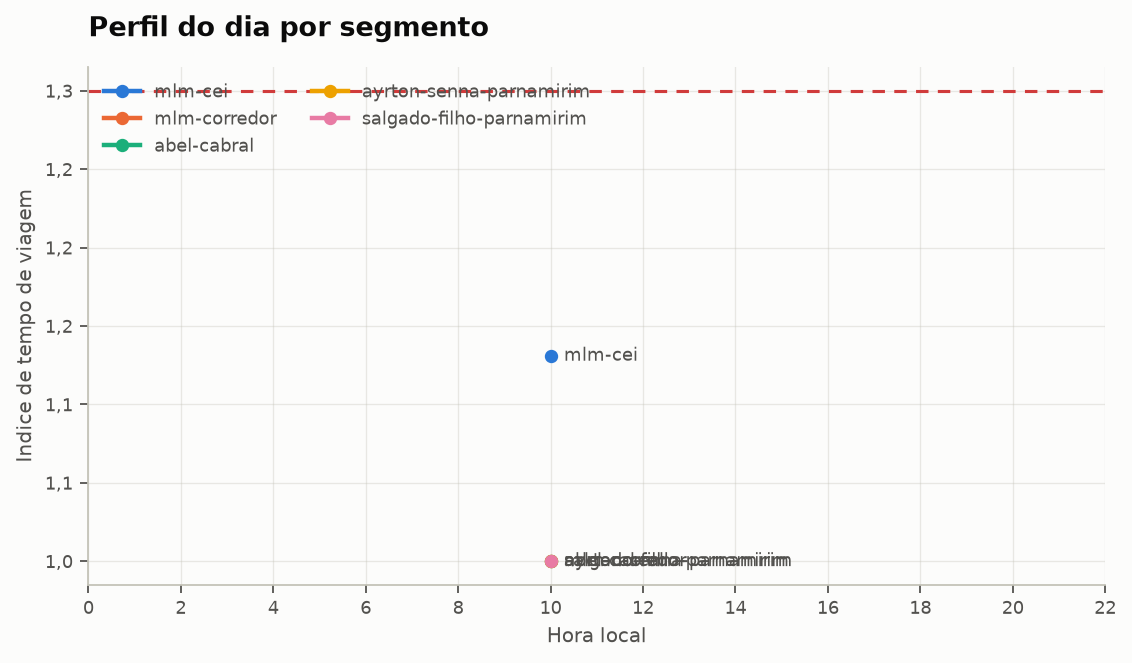
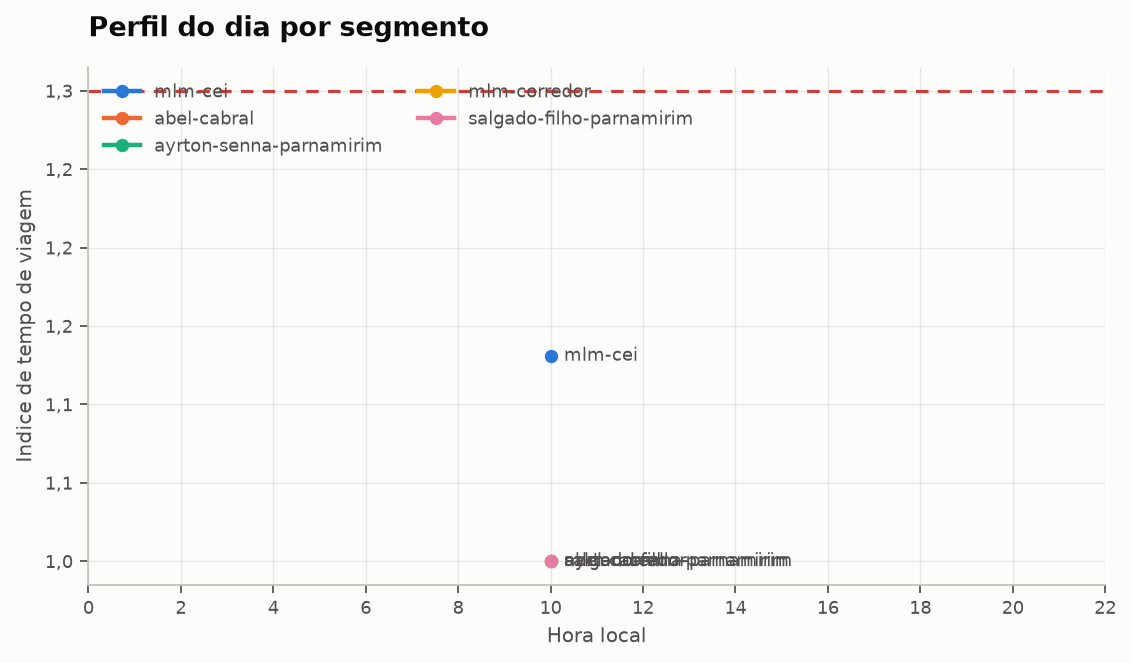
fix: ordem estavel no ranking e nos piores momentos
- adiciona criterio de desempate por atraso e por identificador no ranking
- desempata janelas e piores momentos, que saiam em ordem arbitraria
- evita que o relatorio mude sozinho a cada regeracao sem dado novo

Changed region(s): [[0.1237, 0.1207, 0.6184, 0.2413]]

diff --git a/docs/mapa.html b/docs/mapa.html
@@ -16,7 +16,7 @@
             <meta name="viewport" content="width=device-width,
                 initial-scale=1.0, maximum-scale=1.0, user-scalable=no" />
             <style>
-                #map_b0599a18dadd2fc53e92b37530fadc73 {
+                #map_2650599d9e7b1073843c78829d03b41e {
                     position: relative;
                     width: 100.0vw;
                     height: 100.0vh;
@@ -258,14 +258,14 @@
 <body>
     
     
-            <div class="folium-map" id="map_b0599a18dadd2fc53e92b37530fadc73" ></div>
+            <div class="folium-map" id="map_2650599d9e7b1073843c78829d03b41e" ></div>
         
 </body>
 <script>
     
     
-            var map_b0599a18dadd2fc53e92b37530fadc73 = L.map(
-                "map_b0599a18dadd2fc53e92b37530fadc73",
+            var map_2650599d9e7b1073843c78829d03b41e = L.map(
+                "map_2650599d9e7b1073843c78829d03b41e",
                 {
                     center: [-5.83, -35.22],
                     crs: L.CRS.EPSG3857,
@@ -282,7 +282,7 @@
 
         
     
-            var tile_layer_b36aa2d1f5f37aec56beabec5d338747 = L.tileLayer(
+            var tile_layer_c3d1f9c309dd278775a83b97858472a7 = L.tileLayer(
                 "https://tile.openstreetmap.org/{z}/{x}/{y}.png",
                 {
   "minZoom": 0,
@@ -299,33 +299,33 @@
             );
         
     
-            tile_layer_b36aa2d1f5f37aec56beabec5d338747.addTo(map_b0599a18dadd2fc53e92b37530fadc73);
+            tile_layer_c3d1f9c309dd278775a83b97858472a7.addTo(map_2650599d9e7b1073843c78829d03b41e);
         
     
-            var circle_marker_d3c809e37333265200fe6436957661fb = L.circleMarker(
+            var circle_marker_b37b6ec0578b70390ba91447a5a45bbc = L.circleMarker(
                 [-5.8786711, -35.2165393],
                 {"bubblingMouseEvents": true, "color": "#fcfcfb", "dashArray": null, "dashOffset": null, "fill": true, "fillColor": "#6da7ec", "fillOpacity": 0.85, "fillRule": "evenodd", "lineCap": "round", "lineJoin": "round", "opacity": 1.0, "radius": 7.834, "stroke": true, "weight": 2}
-            ).addTo(map_b0599a18dadd2fc53e92b37530fadc73);
+            ).addTo(map_2650599d9e7b1073843c78829d03b41e);
         
     
-        var popup_c64bc971a4f9cb431c92cb035a677acd = L.popup({
+        var popup_0ab632c3e6bed4c8b66105ad72bbc0eb = L.popup({
   "maxWidth": 280,
 });
 
         
             
-                var html_e09c15186e71930f5a1d05407da52e86 = $(`<div id="html_e09c15186e71930f5a1d05407da52e86" style="width: 100.0%; height: 100.0%;"><b>Avenida Maria Lacerda Montenegro</b><br>Trecho de 444 metros em frente ao CEI Zona Sul, numero 260<br>Nova Parnamirim, Parnamirim<br><br>indice medio 1.13<br>indice no percentil 95 1.25<br>atraso medio 25 s/km<br>0% das amostras em congestionamento<br>2 amostras</div>`)[0];
-                popup_c64bc971a4f9cb431c92cb035a677acd.setContent(html_e09c15186e71930f5a1d05407da52e86);
+                var html_5e99e82abad1a2209df30bcb8d7ef217 = $(`<div id="html_5e99e82abad1a2209df30bcb8d7ef217" style="width: 100.0%; height: 100.0%;"><b>Avenida Maria Lacerda Montenegro</b><br>Trecho de 444 metros em frente ao CEI Zona Sul, numero 260<br>Nova Parnamirim, Parnamirim<br><br>indice medio 1.13<br>indice no percentil 95 1.25<br>atraso medio 25 s/km<br>0% das amostras em congestionamento<br>2 amostras</div>`)[0];
+                popup_0ab632c3e6bed4c8b66105ad72bbc0eb.setContent(html_5e99e82abad1a2209df30bcb8d7ef217);
             
         
 
-        circle_marker_d3c809e37333265200fe6436957661fb.bindPopup(popup_c64bc971a4f9cb431c92cb035a677acd)
+        circle_marker_b37b6ec0578b70390ba91447a5a45bbc.bindPopup(popup_0ab632c3e6bed4c8b66105ad72bbc0eb)
         ;
 
         
     
     
-            circle_marker_d3c809e37333265200fe6436957661fb.bindTooltip(
+            circle_marker_b37b6ec0578b70390ba91447a5a45bbc.bindTooltip(
                 `<div>
                      mlm-cei, indice 1.13
                  </div>`,
@@ -335,63 +335,30 @@
             );
         
     
-            var circle_marker_1b571fe23f397206d14f7d70c2bd9abf = L.circleMarker(
-                [-5.8841519, -35.2130595],
-                {"bubblingMouseEvents": true, "color": "#fcfcfb", "dashArray": null, "dashOffset": null, "fill": true, "fillColor": "#cde2fb", "fillOpacity": 0.85, "fillRule": "evenodd", "lineCap": "round", "lineJoin": "round", "opacity": 1.0, "radius": 6.0, "stroke": true, "weight": 2}
-            ).addTo(map_b0599a18dadd2fc53e92b37530fadc73);
-        
-    
-        var popup_42201a01b507ab7d1876dd009fd17d8f = L.popup({
-  "maxWidth": 280,
-});
-
-        
-            
-                var html_c041ba57fc86c96dc2360e6a53658df1 = $(`<div id="html_c041ba57fc86c96dc2360e6a53658df1" style="width: 100.0%; height: 100.0%;"><b>Avenida Maria Lacerda Montenegro</b><br>Eixo completo da avenida, 3,4 quilometros ate a Ayrton Senna<br>Nova Parnamirim, Parnamirim<br><br>indice medio 1.00<br>indice no percentil 95 1.00<br>atraso medio 0 s/km<br>0% das amostras em congestionamento<br>2 amostras</div>`)[0];
-                popup_42201a01b507ab7d1876dd009fd17d8f.setContent(html_c041ba57fc86c96dc2360e6a53658df1);
-            
-        
-
-        circle_marker_1b571fe23f397206d14f7d70c2bd9abf.bindPopup(popup_42201a01b507ab7d1876dd009fd17d8f)
-        ;
-
-        
-    
-    
-            circle_marker_1b571fe23f397206d14f7d70c2bd9abf.bindTooltip(
-                `<div>
-                     mlm-corredor, indice 1.00
-                 </div>`,
-                {
-  "sticky": true,
-}
-            );
-        
-    
-            var circle_marker_716eb4b44540b0e4a754ac7b1abd38c2 = L.circleMarker(
+            var circle_marker_a23154bab1b4b0a234d07542c65d4307 = L.circleMarker(
                 [-5.8753441, -35.2147456],
                 {"bubblingMouseEvents": true, "color": "#fcfcfb", "dashArray": null, "dashOffset": null, "fill": true, "fillColor": "#cde2fb", "fillOpacity": 0.85, "fillRule": "evenodd", "lineCap": "round", "lineJoin": "round", "opacity": 1.0, "radius": 6.0, "stroke": true, "weight": 2}
-            ).addTo(map_b0599a18dadd2fc53e92b37530fadc73);
+            ).addTo(map_2650599d9e7b1073843c78829d03b41e);
         
     
-        var popup_1b3c4bc73b69012c87e2769da17c2864 = L.popup({
+        var popup_0f3a98fb3f60ececb87e90a6da29ad71 = L.popup({
   "maxWidth": 280,
 });
 
         
             
-                var html_8f2f0921243ebb78db72cc7ca1d13711 = $(`<div id="html_8f2f0921243ebb78db72cc7ca1d13711" style="width: 100.0%; height: 100.0%;"><b>Avenida Abel Cabral</b><br>Trecho central de Nova Parnamirim<br>Nova Parnamirim, Parnamirim<br><br>indice medio 1.00<br>indice no percentil 95 1.00<br>atraso medio 0 s/km<br>0% das amostras em congestionamento<br>2 amostras</div>`)[0];
-                popup_1b3c4bc73b69012c87e2769da17c2864.setContent(html_8f2f0921243ebb78db72cc7ca1d13711);
+                var html_589fda66cab1a89a12caf192904574cc = $(`<div id="html_589fda66cab1a89a12caf192904574cc" style="width: 100.0%; height: 100.0%;"><b>Avenida Abel Cabral</b><br>Trecho central de Nova Parnamirim<br>Nova Parnamirim, Parnamirim<br><br>indice medio 1.00<br>indice no percentil 95 1.00<br>atraso medio 0 s/km<br>0% das amostras em congestionamento<br>2 amostras</div>`)[0];
+                popup_0f3a98fb3f60ececb87e90a6da29ad71.setContent(html_589fda66cab1a89a12caf192904574cc);
             
         
 
-        circle_marker_716eb4b44540b0e4a754ac7b1abd38c2.bindPopup(popup_1b3c4bc73b69012c87e2769da17c2864)
+        circle_marker_a23154bab1b4b0a234d07542c65d4307.bindPopup(popup_0f3a98fb3f60ececb87e90a6da29ad71)
         ;
 
         
     
     
-            circle_marker_716eb4b44540b0e4a754ac7b1abd38c2.bindTooltip(
+            circle_marker_a23154bab1b4b0a234d07542c65d4307.bindTooltip(
                 `<div>
                      abel-cabral, indice 1.00
                  </div>`,
@@ -401,30 +368,30 @@
             );
         
     
-            var circle_marker_c6f1f19d617e66fac577b8edf7c436a7 = L.circleMarker(
+            var circle_marker_2204fca948bd9ba8f2c676bfa4d12896 = L.circleMarker(
                 [-5.8886641, -35.1993949],
                 {"bubblingMouseEvents": true, "color": "#fcfcfb", "dashArray": null, "dashOffset": null, "fill": true, "fillColor": "#cde2fb", "fillOpacity": 0.85, "fillRule": "evenodd", "lineCap": "round", "lineJoin": "round", "opacity": 1.0, "radius": 6.0, "stroke": true, "weight": 2}
-            ).addTo(map_b0599a18dadd2fc53e92b37530fadc73);
+            ).addTo(map_2650599d9e7b1073843c78829d03b41e);
         
     
-        var popup_3beaf81db688bdeff4038b120a0a6c48 = L.popup({
+        var popup_0d4ae2d3341c5c1cad27dedf42d730bb = L.popup({
   "maxWidth": 280,
 });
 
         
             
-                var html_6f4ad1e3ef3cae753421ddcda7cd7f38 = $(`<div id="html_6f4ad1e3ef3cae753421ddcda7cd7f38" style="width: 100.0%; height: 100.0%;"><b>Avenida Ayrton Senna</b><br>Portelinha, sentido Natal<br>Nova Parnamirim, Parnamirim<br><br>indice medio 1.00<br>indice no percentil 95 1.00<br>atraso medio 0 s/km<br>0% das amostras em congestionamento<br>2 amostras</div>`)[0];
-                popup_3beaf81db688bdeff4038b120a0a6c48.setContent(html_6f4ad1e3ef3cae753421ddcda7cd7f38);
+                var html_63b0c0d652348c0e2233240419706aa5 = $(`<div id="html_63b0c0d652348c0e2233240419706aa5" style="width: 100.0%; height: 100.0%;"><b>Avenida Ayrton Senna</b><br>Portelinha, sentido Natal<br>Nova Parnamirim, Parnamirim<br><br>indice medio 1.00<br>indice no percentil 95 1.00<br>atraso medio 0 s/km<br>0% das amostras em congestionamento<br>2 amostras</div>`)[0];
+                popup_0d4ae2d3341c5c1cad27dedf42d730bb.setContent(html_63b0c0d652348c0e2233240419706aa5);
             
         
 
-        circle_marker_c6f1f19d617e66fac577b8edf7c436a7.bindPopup(popup_3beaf81db688bdeff4038b120a0a6c48)
+        circle_marker_2204fca948bd9ba8f2c676bfa4d12896.bindPopup(popup_0d4ae2d3341c5c1cad27dedf42d730bb)
         ;
 
         
     
     
-            circle_marker_c6f1f19d617e66fac577b8edf7c436a7.bindTooltip(
+            circle_marker_2204fca948bd9ba8f2c676bfa4d12896.bindTooltip(
                 `<div>
                      ayrton-senna-parnamirim, indice 1.00
                  </div>`,
@@ -434,30 +401,63 @@
             );
         
     
-            var circle_marker_44d9e337e04f6a7233e6cf0ae5485a1a = L.circleMarker(
-                [-5.8738897, -35.2209179],
+            var circle_marker_6081bb5caf04c86f70f0a48877856fce = L.circleMarker(
+                [-5.8841519, -35.2130595],
                 {"bubblingMouseEvents": true, "color": "#fcfcfb", "dashArray": null, "dashOffset": null, "fill": true, "fillColor": "#cde2fb", "fillOpacity": 0.85, "fillRule": "evenodd", "lineCap": "round", "lineJoin": "round", "opacity": 1.0, "radius": 6.0, "stroke": true, "weight": 2}
-            ).addTo(map_b0599a18dadd2fc53e92b37530fadc73);
+            ).addTo(map_2650599d9e7b1073843c78829d03b41e);
         
     
-        var popup_456b840fd2407c2fe0d41f6a2a7bb876 = L.popup({
+        var popup_6bcd57cd4b3aa2a85d8d87e031b53987 = L.popup({
   "maxWidth": 280,
 });
 
         
             
-                var html_db4e7234f3d95473301a30932530b9cb = $(`<div id="html_db4e7234f3d95473301a30932530b9cb" style="width: 100.0%; height: 100.0%;"><b>BR-101, Avenida Senador Salgado Filho</b><br>Trecho de Nova Parnamirim<br>Nova Parnamirim, Parnamirim<br><br>indice medio 1.00<br>indice no percentil 95 1.00<br>atraso medio 0 s/km<br>0% das amostras em congestionamento<br>2 amostras</div>`)[0];
-                popup_456b840fd2407c2fe0d41f6a2a7bb876.setContent(html_db4e7234f3d95473301a30932530b9cb);
+                var html_c705d6d6c8233860f7665253ff254abd = $(`<div id="html_c705d6d6c8233860f7665253ff254abd" style="width: 100.0%; height: 100.0%;"><b>Avenida Maria Lacerda Montenegro</b><br>Eixo completo da avenida, 3,4 quilometros ate a Ayrton Senna<br>Nova Parnamirim, Parnamirim<br><br>indice medio 1.00<br>indice no percentil 95 1.00<br>atraso medio 0 s/km<br>0% das amostras em congestionamento<br>2 amostras</div>`)[0];
+                popup_6bcd57cd4b3aa2a85d8d87e031b53987.setContent(html_c705d6d6c8233860f7665253ff254abd);
             
         
 
-        circle_marker_44d9e337e04f6a7233e6cf0ae5485a1a.bindPopup(popup_456b840fd2407c2fe0d41f6a2a7bb876)
+        circle_marker_6081bb5caf04c86f70f0a48877856fce.bindPopup(popup_6bcd57cd4b3aa2a85d8d87e031b53987)
         ;
 
         
     
     
-            circle_marker_44d9e337e04f6a7233e6cf0ae5485a1a.bindTooltip(
+            circle_marker_6081bb5caf04c86f70f0a48877856fce.bindTooltip(
+                `<div>
+                     mlm-corredor, indice 1.00
+                 </div>`,
+                {
+  "sticky": true,
+}
+            );
+        
+    
+            var circle_marker_d08af5843fdb136f79969aae70c7bb24 = L.circleMarker(
+                [-5.8738897, -35.2209179],
+                {"bubblingMouseEvents": true, "color": "#fcfcfb", "dashArray": null, "dashOffset": null, "fill": true, "fillColor": "#cde2fb", "fillOpacity": 0.85, "fillRule": "evenodd", "lineCap": "round", "lineJoin": "round", "opacity": 1.0, "radius": 6.0, "stroke": true, "weight": 2}
+            ).addTo(map_2650599d9e7b1073843c78829d03b41e);
+        
+    
+        var popup_37b457dfb2d6bfac5a333708a77782b8 = L.popup({
+  "maxWidth": 280,
+});
+
+        
+            
+                var html_9123911c0723a26659f227f65c778b22 = $(`<div id="html_9123911c0723a26659f227f65c778b22" style="width: 100.0%; height: 100.0%;"><b>BR-101, Avenida Senador Salgado Filho</b><br>Trecho de Nova Parnamirim<br>Nova Parnamirim, Parnamirim<br><br>indice medio 1.00<br>indice no percentil 95 1.00<br>atraso medio 0 s/km<br>0% das amostras em congestionamento<br>2 amostras</div>`)[0];
+                popup_37b457dfb2d6bfac5a333708a77782b8.setContent(html_9123911c0723a26659f227f65c778b22);
+            
+        
+
+        circle_marker_d08af5843fdb136f79969aae70c7bb24.bindPopup(popup_37b457dfb2d6bfac5a333708a77782b8)
+        ;
+
+        
+    
+    
+            circle_marker_d08af5843fdb136f79969aae70c7bb24.bindTooltip(
                 `<div>
                      salgado-filho-parnamirim, indice 1.00
                  </div>`,

diff --git a/src/transito_natal/analytics/analise.py b/src/transito_natal/analytics/analise.py
@@ -101,7 +101,7 @@ class Analise:
             JOIN segmentos s ON s.identificador = a.segmento
             GROUP BY ALL
             HAVING count(*) >= ?
-            ORDER BY indice_medio DESC
+            ORDER BY indice_medio DESC, atraso_medio_s_km DESC, a.segmento
             """,
             [minimo_de_amostras],
         )
@@ -116,7 +116,7 @@ class Analise:
                 round(100.0 * sum(critica) / count(*), 1) AS percentual_critico
             FROM amostras
             GROUP BY ALL
-            ORDER BY indice_medio DESC
+            ORDER BY indice_medio DESC, janela
             """
         )
 
@@ -199,7 +199,7 @@ class Analise:
                 velocidade_atual_kmh,
                 nivel
             FROM amostras
-            ORDER BY indice DESC
+            ORDER BY indice DESC, segmento, coletado_em
             LIMIT ?
             """,
             [limite],

diff --git a/tests/test_analise.py b/tests/test_analise.py
@@ -132,3 +132,18 @@ def test_efeito_da_chuva_compara_os_dois_estados(tmp_path):
     chuva = next(linha for linha in efeito if linha["chovendo"])
     seco = next(linha for linha in efeito if not linha["chovendo"])
     assert chuva["indice_medio"] > seco["indice_medio"]
+
+
+def test_ranking_desempata_de_forma_estavel(tmp_path):
+    semear(tmp_path)
+    ordens = []
+    for _ in range(3):
+        with Analise(tmp_path, SEGMENTOS) as instancia:
+            ordens.append([linha["segmento"] for linha in instancia.ranking_de_gargalos()])
+    assert ordens[0] == ordens[1] == ordens[2]
+
+
+def test_piores_momentos_desempatam_de_forma_estavel(analise):
+    primeiro = analise.piores_momentos(limite=10)
+    segundo = analise.piores_momentos(limite=10)
+    assert [linha["momento"] for linha in primeiro] == [linha["momento"] for linha in segundo]

diff --git a/README.md b/README.md
@@ -40,7 +40,7 @@ local e barata. A analise completa e as medidas pesquisadas estao em
 
 <!-- inicio dos achados -->
 
-Atualizado em 21/11/2026 13:54 utc pelo comando `transito relatorio`.
+Atualizado em 21/11/2026 13:57 utc pelo comando `transito relatorio`.
 
 Serie de 10 amostras em 5 segmentos, cobrindo 1 dia, de 2026-11-21 a 2026-11-21.
 
@@ -51,9 +51,9 @@ Serie de 10 amostras em 5 segmentos, cobrindo 1 dia, de 2026-11-21 a 2026-11-21.
 | Via | Trecho | Municipio | Indice medio | Indice p95 | Atraso s/km | % critico | Velocidade media | Amostras |
 | --- | --- | --- | --- | --- | --- | --- | --- | --- |
 | Avenida Maria Lacerda Montenegro | Trecho de 444 metros em frente ao CEI Zona Sul, numero 260 | Parnamirim | 1,13 | 1,25 | 24,8 | 0 | 17,5 | 2 |
-| Avenida Maria Lacerda Montenegro | Eixo completo da avenida, 3,4 quilometros ate a Ayrton Senna | Parnamirim | 1 | 1 | 0 | 0 | 35 | 2 |
 | Avenida Abel Cabral | Trecho central de Nova Parnamirim | Parnamirim | 1 | 1 | 0 | 0 | 30 | 2 |
 | Avenida Ayrton Senna | Portelinha, sentido Natal | Parnamirim | 1 | 1 | 0 | 0 | 33 | 2 |
+| Avenida Maria Lacerda Montenegro | Eixo completo da avenida, 3,4 quilometros ate a Ayrton Senna | Parnamirim | 1 | 1 | 0 | 0 | 35 | 2 |
 | BR-101, Avenida Senador Salgado Filho | Trecho de Nova Parnamirim | Parnamirim | 1 | 1 | 0 | 0 | 70 | 2 |
 
 ![Perfil horario](docs/figuras/perfil-horario.png)
@@ -83,14 +83,14 @@ Serie de 10 amostras em 5 segmentos, cobrindo 1 dia, de 2026-11-21 a 2026-11-21.
 | Segmento | Momento | Dia | Indice | Velocidade | Nivel |
 | --- | --- | --- | --- | --- | --- |
 | mlm-cei | 21/11 10:41 | Saturday | 1,26 | 15 | B |
-| mlm-corredor | 21/11 10:41 | Saturday | 1 | 35 | A |
 | abel-cabral | 21/11 10:41 | Saturday | 1 | 30 | A |
-| ayrton-senna-parnamirim | 21/11 10:41 | Saturday | 1 | 33 | A |
-| salgado-filho-parnamirim | 21/11 10:41 | Saturday | 1 | 70 | A |
-| mlm-cei | 21/11 10:53 | Saturday | 1 | 20 | A |
-| mlm-corredor | 21/11 10:53 | Saturday | 1 | 35 | A |
 | abel-cabral | 21/11 10:53 | Saturday | 1 | 30 | A |
+| ayrton-senna-parnamirim | 21/11 10:41 | Saturday | 1 | 33 | A |
 | ayrton-senna-parnamirim | 21/11 10:53 | Saturday | 1 | 33 | A |
+| mlm-cei | 21/11 10:53 | Saturday | 1 | 20 | A |
+| mlm-corredor | 21/11 10:41 | Saturday | 1 | 35 | A |
+| mlm-corredor | 21/11 10:53 | Saturday | 1 | 35 | A |
+| salgado-filho-parnamirim | 21/11 10:41 | Saturday | 1 | 70 | A |
 | salgado-filho-parnamirim | 21/11 10:53 | Saturday | 1 | 70 | A |
 
 <!-- fim dos achados -->

diff --git a/docs/achados.md b/docs/achados.md
@@ -7,9 +7,9 @@ Serie de 10 amostras em 5 segmentos, cobrindo 1 dia, de 2026-11-21 a 2026-11-21.
 | Via | Trecho | Municipio | Indice medio | Indice p95 | Atraso s/km | % critico | Velocidade media | Amostras |
 | --- | --- | --- | --- | --- | --- | --- | --- | --- |
 | Avenida Maria Lacerda Montenegro | Trecho de 444 metros em frente ao CEI Zona Sul, numero 260 | Parnamirim | 1,13 | 1,25 | 24,8 | 0 | 17,5 | 2 |
-| Avenida Maria Lacerda Montenegro | Eixo completo da avenida, 3,4 quilometros ate a Ayrton Senna | Parnamirim | 1 | 1 | 0 | 0 | 35 | 2 |
 | Avenida Abel Cabral | Trecho central de Nova Parnamirim | Parnamirim | 1 | 1 | 0 | 0 | 30 | 2 |
 | Avenida Ayrton Senna | Portelinha, sentido Natal | Parnamirim | 1 | 1 | 0 | 0 | 33 | 2 |
+| Avenida Maria Lacerda Montenegro | Eixo completo da avenida, 3,4 quilometros ate a Ayrton Senna | Parnamirim | 1 | 1 | 0 | 0 | 35 | 2 |
 | BR-101, Avenida Senador Salgado Filho | Trecho de Nova Parnamirim | Parnamirim | 1 | 1 | 0 | 0 | 70 | 2 |
 
 ![Perfil horario](docs/figuras/perfil-horario.png)
@@ -39,12 +39,12 @@ Serie de 10 amostras em 5 segmentos, cobrindo 1 dia, de 2026-11-21 a 2026-11-21.
 | Segmento | Momento | Dia | Indice | Velocidade | Nivel |
 | --- | --- | --- | --- | --- | --- |
 | mlm-cei | 21/11 10:41 | Saturday | 1,26 | 15 | B |
-| mlm-corredor | 21/11 10:41 | Saturday | 1 | 35 | A |
 | abel-cabral | 21/11 10:41 | Saturday | 1 | 30 | A |
-| ayrton-senna-parnamirim | 21/11 10:41 | Saturday | 1 | 33 | A |
-| salgado-filho-parnamirim | 21/11 10:41 | Saturday | 1 | 70 | A |
-| mlm-cei | 21/11 10:53 | Saturday | 1 | 20 | A |
-| mlm-corredor | 21/11 10:53 | Saturday | 1 | 35 | A |
 | abel-cabral | 21/11 10:53 | Saturday | 1 | 30 | A |
+| ayrton-senna-parnamirim | 21/11 10:41 | Saturday | 1 | 33 | A |
 | ayrton-senna-parnamirim | 21/11 10:53 | Saturday | 1 | 33 | A |
+| mlm-cei | 21/11 10:53 | Saturday | 1 | 20 | A |
+| mlm-corredor | 21/11 10:41 | Saturday | 1 | 35 | A |
+| mlm-corredor | 21/11 10:53 | Saturday | 1 | 35 | A |
+| salgado-filho-parnamirim | 21/11 10:41 | Saturday | 1 | 70 | A |
 | salgado-filho-parnamirim | 21/11 10:53 | Saturday | 1 | 70 | A |
